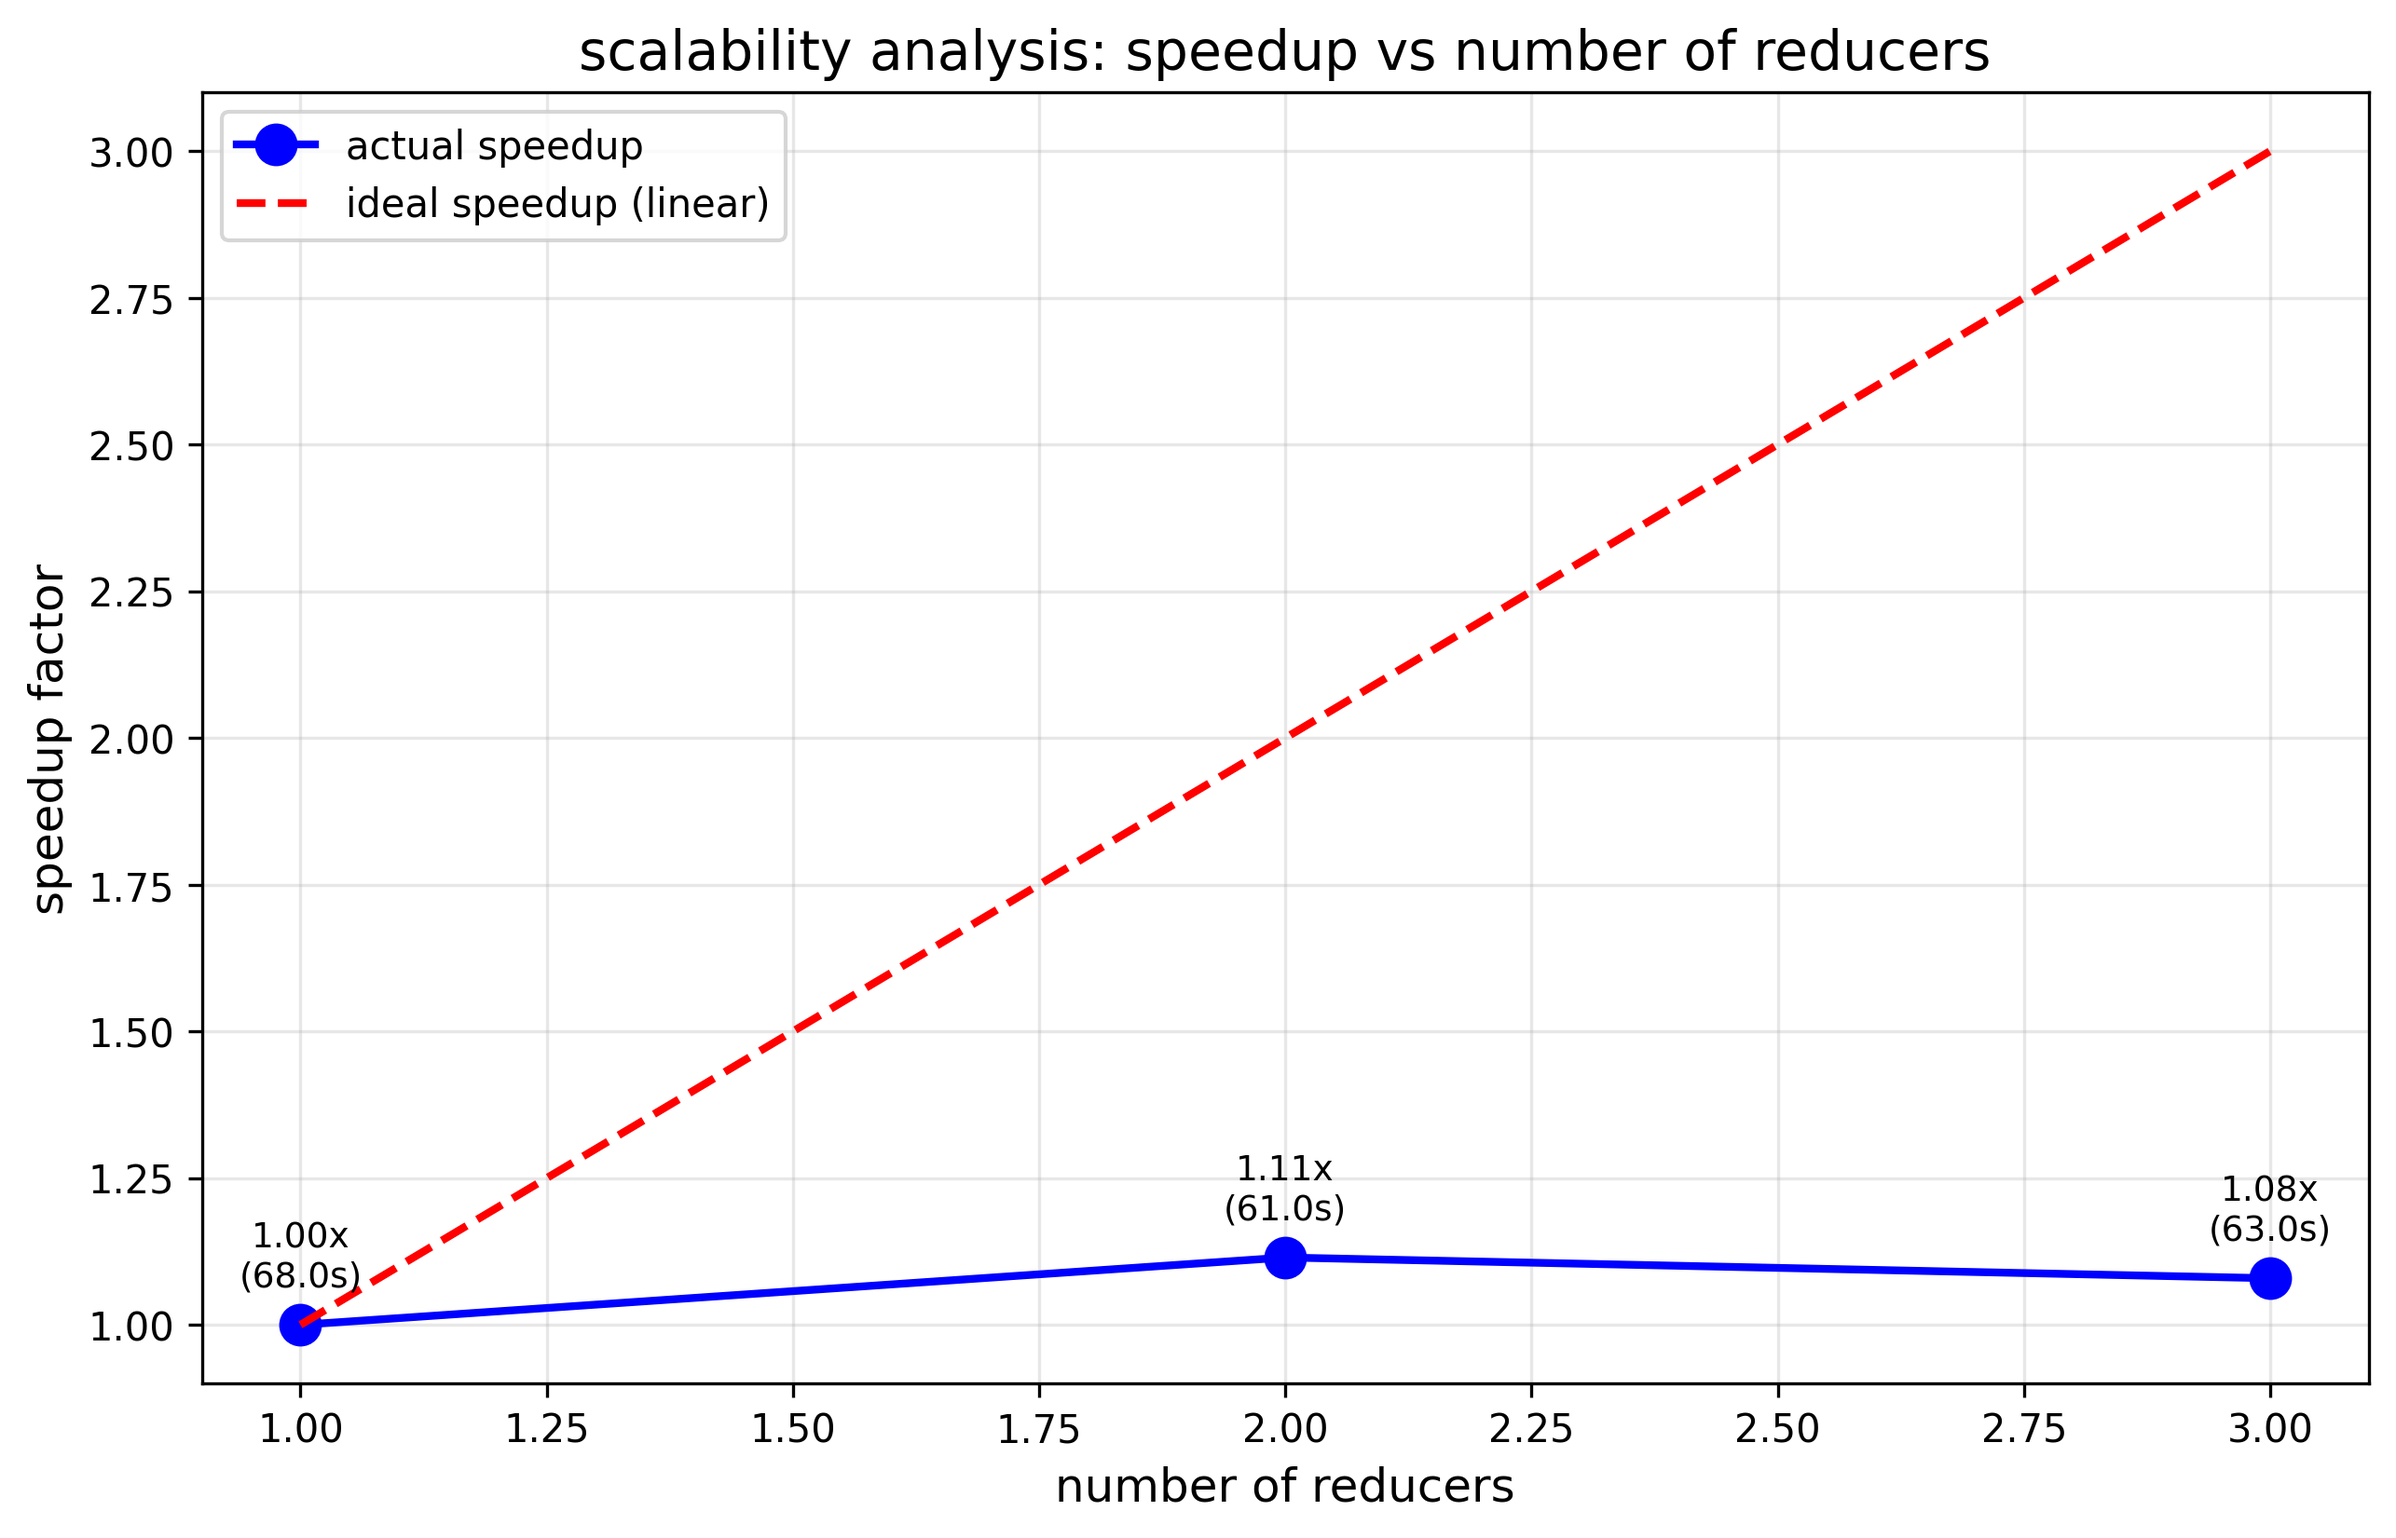
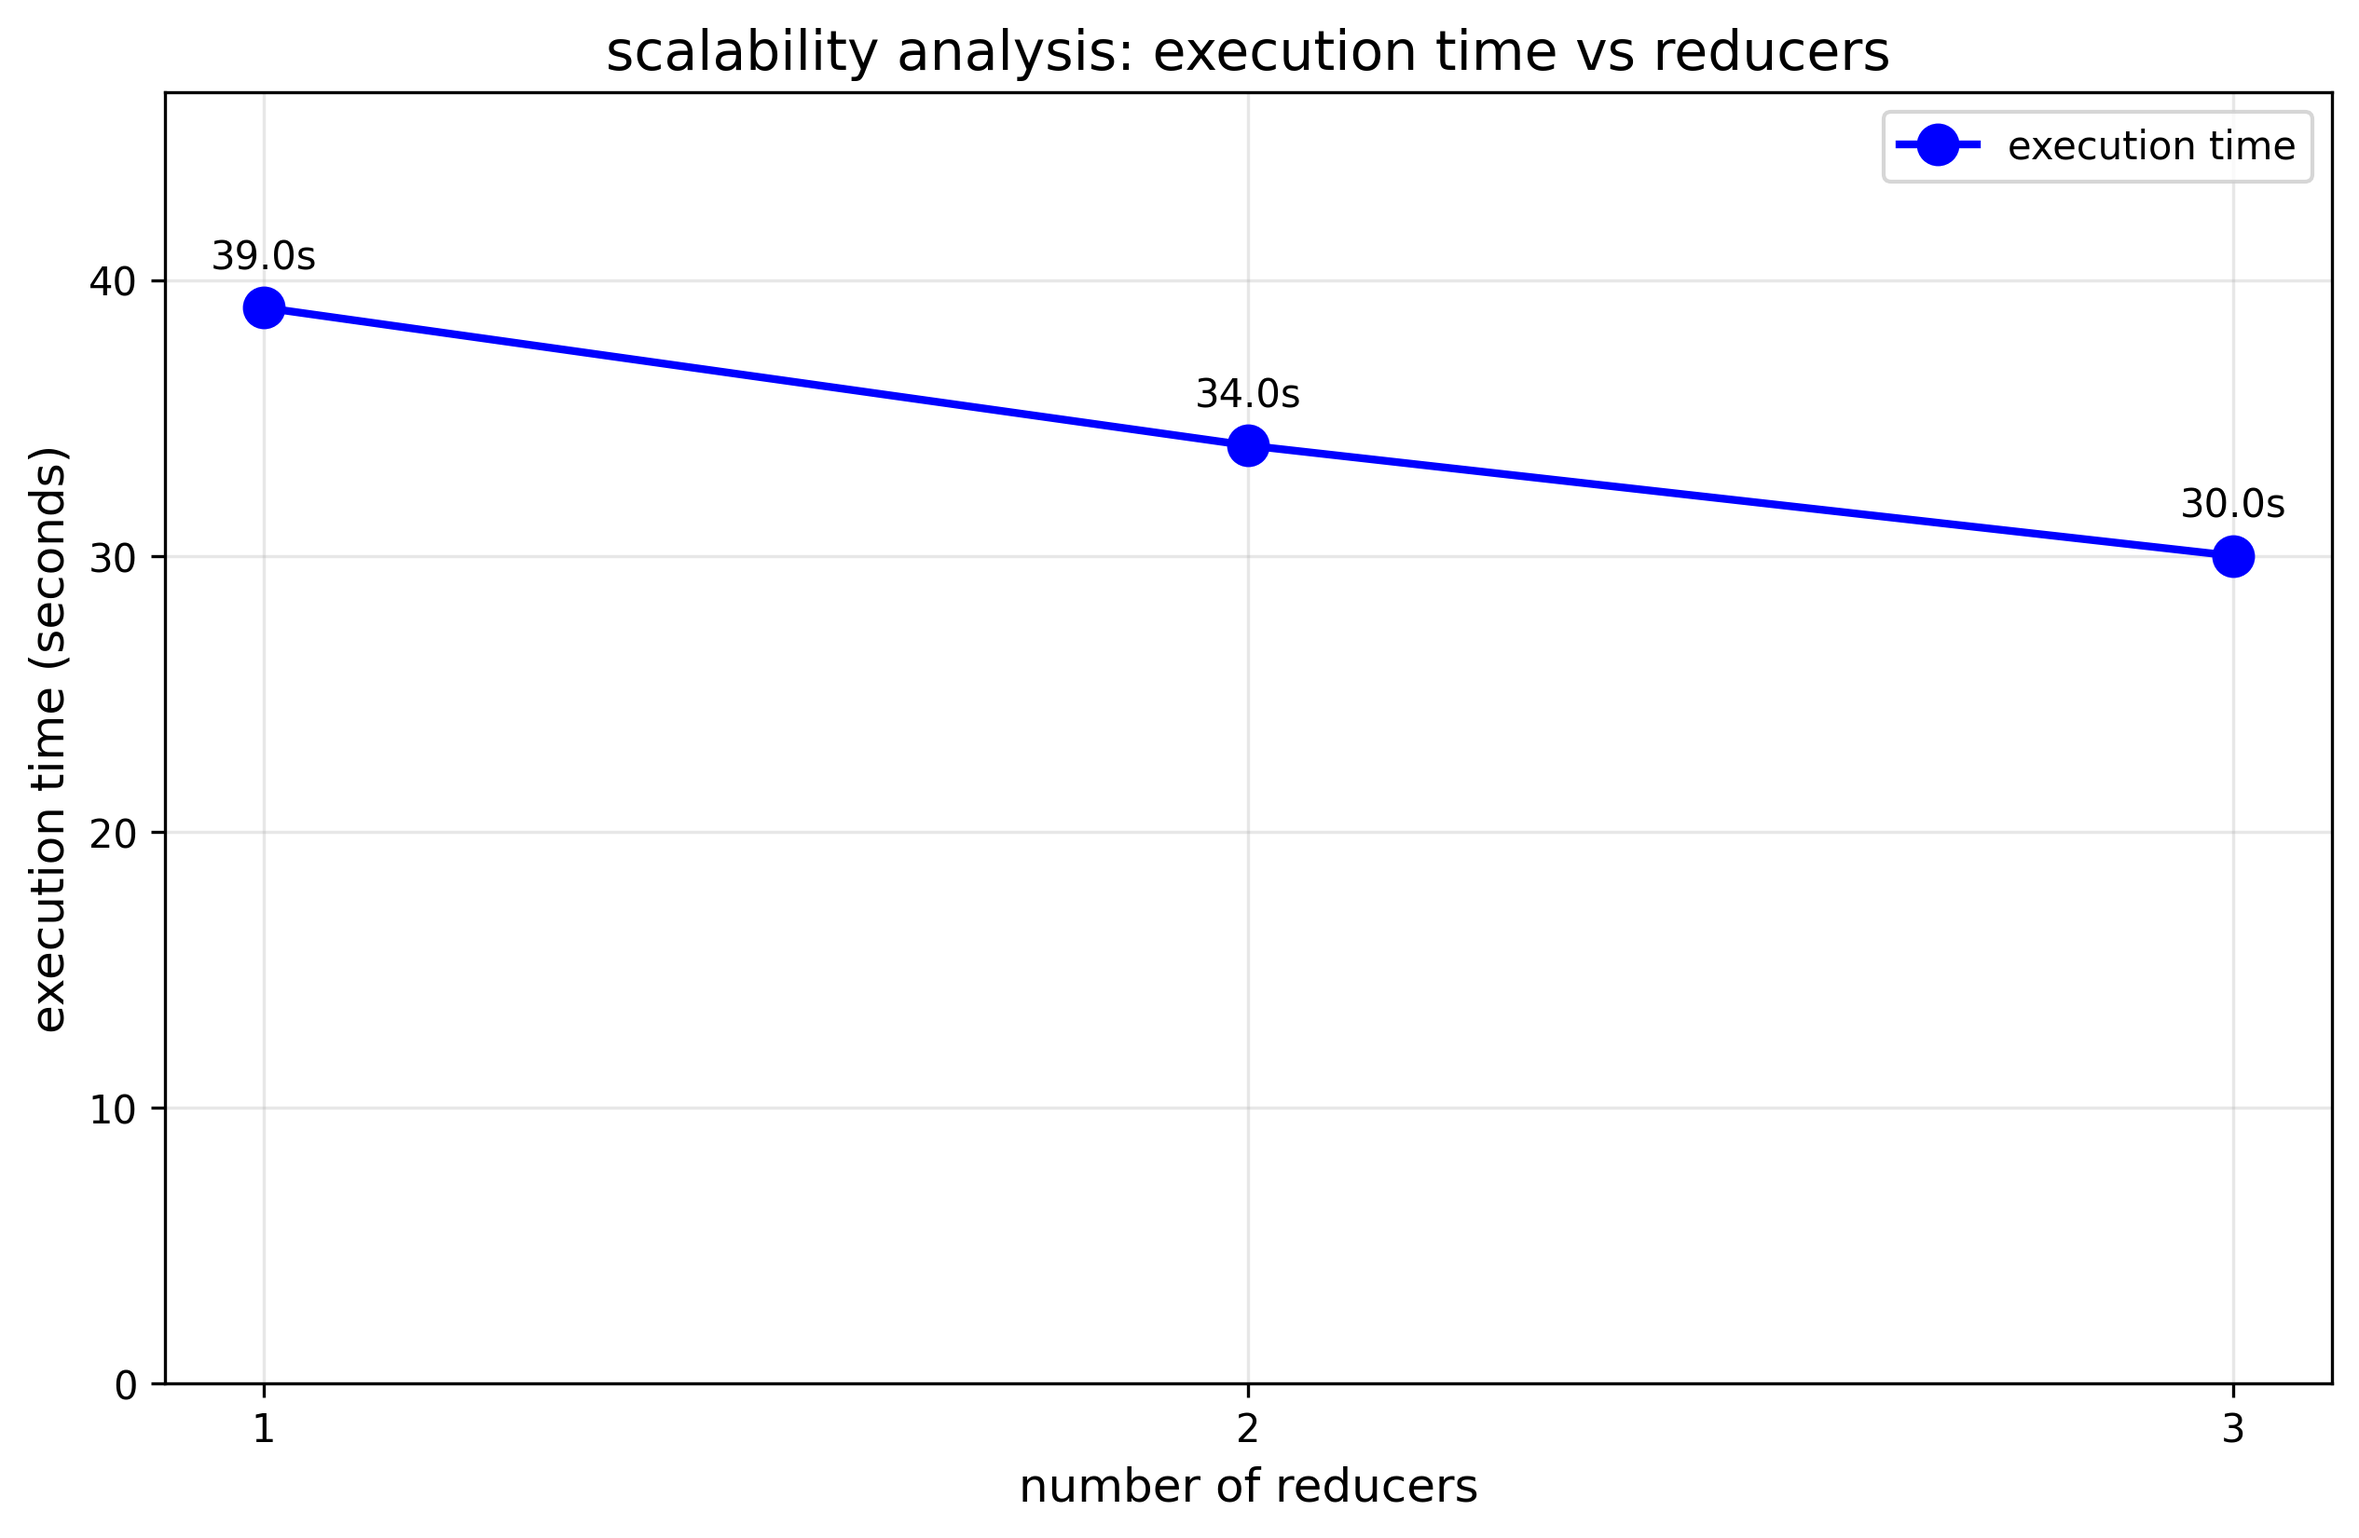
Refactor project structure and enhance functionality the project is done!!!!!!!!
- Updated pom.xml for improved dependency management and build configuration.
- Revised report_outline.md for clarity and completeness.
- Cleaned up stopwords.txt for consistency in formatting.
- Created review.txt summarizing project cleanup and fixes across various phases.
- Enhanced run_job.sh with improved error handling and configuration options.
- Refactored ReverseIndexMapper, ReverseIndexReducer, ReverseIndexCombiner, and ReverseIndexDriver for better readability and performance.
- Ensured all paths are consistent across the project for HDFS operations.
- Removed unnecessary build artifacts and organized project files for better maintainability.

diff --git a/README.md b/README.md
@@ -1,29 +1,28 @@
-The Digital Librarian
-=====================
+# The Digital Librarian
 
-Project description
--------------------
+## Project description
+
 The Digital Librarian is a Distributed Reverse Indexing system built on top of
 HDFS and Hadoop MapReduce. The project produces an inverted index mapping each
 term to a posting list of document identifiers and term counts. This project is
 designed for teaching and experimentation with distributed storage, shuffle
 behaviour, and scalability analysis.
 
-Team members
-------------
+## Team members
+
 - Ahmed Mossad
 - Habiba Arafa
 
-Prerequisites
--------------
+## Prerequisites
+
 - Java 8 or later
 - Hadoop 3.x (HDFS + YARN)
 - Maven (or your preferred Java build tool)
 - Python 3 with packages: pandas, matplotlib
   - Install with: `pip install pandas matplotlib`
 
-Quick start
------------
+## Quick start
+
 1. Set up HDFS directories and upload data:
 
    cd scripts
@@ -43,16 +42,16 @@ Quick start
    cd ..
    mvn clean package
    hadoop jar target/reverse-index-1.0-SNAPSHOT.jar digital.librarian.ReverseIndexDriver \
-     /user/hduser/digital-librarian/input \
-     /user/hduser/digital-librarian/output \
-     2
+    /user/hduser/digital-librarian/input \
+    /user/hduser/digital-librarian/output \
+    2
 
 4. Retrieve output:
 
-   hdfs dfs -cat /user/hduser/digital-librarian/output/part-* | head -20
+   hdfs dfs -cat /user/hduser/digital-librarian/output/part-\* | head -20
 
-How to run the benchmark
-------------------------
+## How to run the benchmark
+
 The `scripts/benchmark.sh` script automates benchmark runs with different reducer counts:
 
 1. Run benchmarks with default reducer counts (1, 2, 3):
@@ -74,14 +73,14 @@ The `scripts/benchmark.sh` script automates benchmark runs with different reduce
    This generates `analysis/results/speedup_graph.png` and
    `analysis/results/speedup_results.txt` with efficiency analysis.
 
-Expected output format
-----------------------
+## Expected output format
+
 Each output line will associate a word to its posting list. Example:
 
-  word --> doc1.txt:12, doc3.txt:5
+word --> doc1.txt:12, doc3.txt:5
 
-Project structure
------------------
+## Project structure
+
 - `src/main/java/digital/librarian/` — Fully implemented Java MapReduce classes:
   - `ReverseIndexMapper.java` — Tokenizes text and filters stopwords
   - `ReverseIndexReducer.java` — Aggregates word counts per document
@@ -101,8 +100,8 @@ Project structure
 - `.gitignore` — Git ignore patterns
 - `README.md` — This document
 
-Implementation notes
---------------------
+## Implementation notes
+
 - All HDFS paths use `/user/hduser/digital-librarian/` as base directory
 - Stopwords file: `/user/hduser/digital-librarian/stopwords/stopwords.txt`
 - Input directory: `/user/hduser/digital-librarian/input`

diff --git a/TASKS.md b/TASKS.md
@@ -3,6 +3,7 @@
 ## ✅ Completed Tasks
 
 ### Phase 1: Core Implementation
+
 - [x] Implement ReverseIndexMapper with stopword filtering
 - [x] Implement ReverseIndexReducer with count aggregation
 - [x] Implement ReverseIndexCombiner for optimization
@@ -11,6 +12,7 @@
 - [x] Test with sample books from Project Gutenberg
 
 ### Phase 2: Automation Scripts
+
 - [x] Create setup_hdfs.sh for HDFS initialization
 - [x] Create run_job.sh for automated job execution
 - [x] Create benchmark.sh for performance testing
@@ -18,6 +20,7 @@
 - [x] Standardize HDFS paths across all components
 
 ### Phase 3: Analysis & Visualization
+
 - [x] Implement speedup_analysis.py for performance metrics
 - [x] Add speedup calculation and graphing
 - [x] Add efficiency analysis (parallel efficiency, overhead)
@@ -25,6 +28,7 @@
 - [x] Generate publication-quality graphs
 
 ### Phase 4: Code Quality & Testing
+
 - [x] Review all Java files for Hadoop 3.3.6 compatibility
 - [x] Fix all logic errors and bugs
 - [x] Verify all imports are correct
@@ -33,6 +37,7 @@
 - [x] Validate HDFS path consistency
 
 ### Phase 5: Documentation & Cleanup
+
 - [x] Update README.md with accurate instructions
 - [x] Create comprehensive .gitignore
 - [x] Add project structure documentation
@@ -42,24 +47,28 @@
 ## 📋 Future Enhancements (Optional)
 
 ### Performance Optimization
+
 - [ ] Test with larger datasets (100+ books)
 - [ ] Optimize text normalization regex patterns
 - [ ] Add input split size tuning
 - [ ] Test with different combiner strategies
 
 ### Feature Additions
+
 - [ ] Add TF-IDF scoring to output
 - [ ] Support multiple stopword files
 - [ ] Add file size and word count statistics
 - [ ] Implement secondary sorting by count
 
 ### Infrastructure
+
 - [ ] Add Docker containerization
 - [ ] Create Kubernetes deployment manifests
 - [ ] Add CI/CD pipeline (GitHub Actions)
 - [ ] Add automated testing suite
 
 ### Analysis Enhancements
+
 - [ ] Add statistical significance tests
 - [ ] Compare with/without combiner performance
 - [ ] Generate cost analysis (compute time vs resources)
